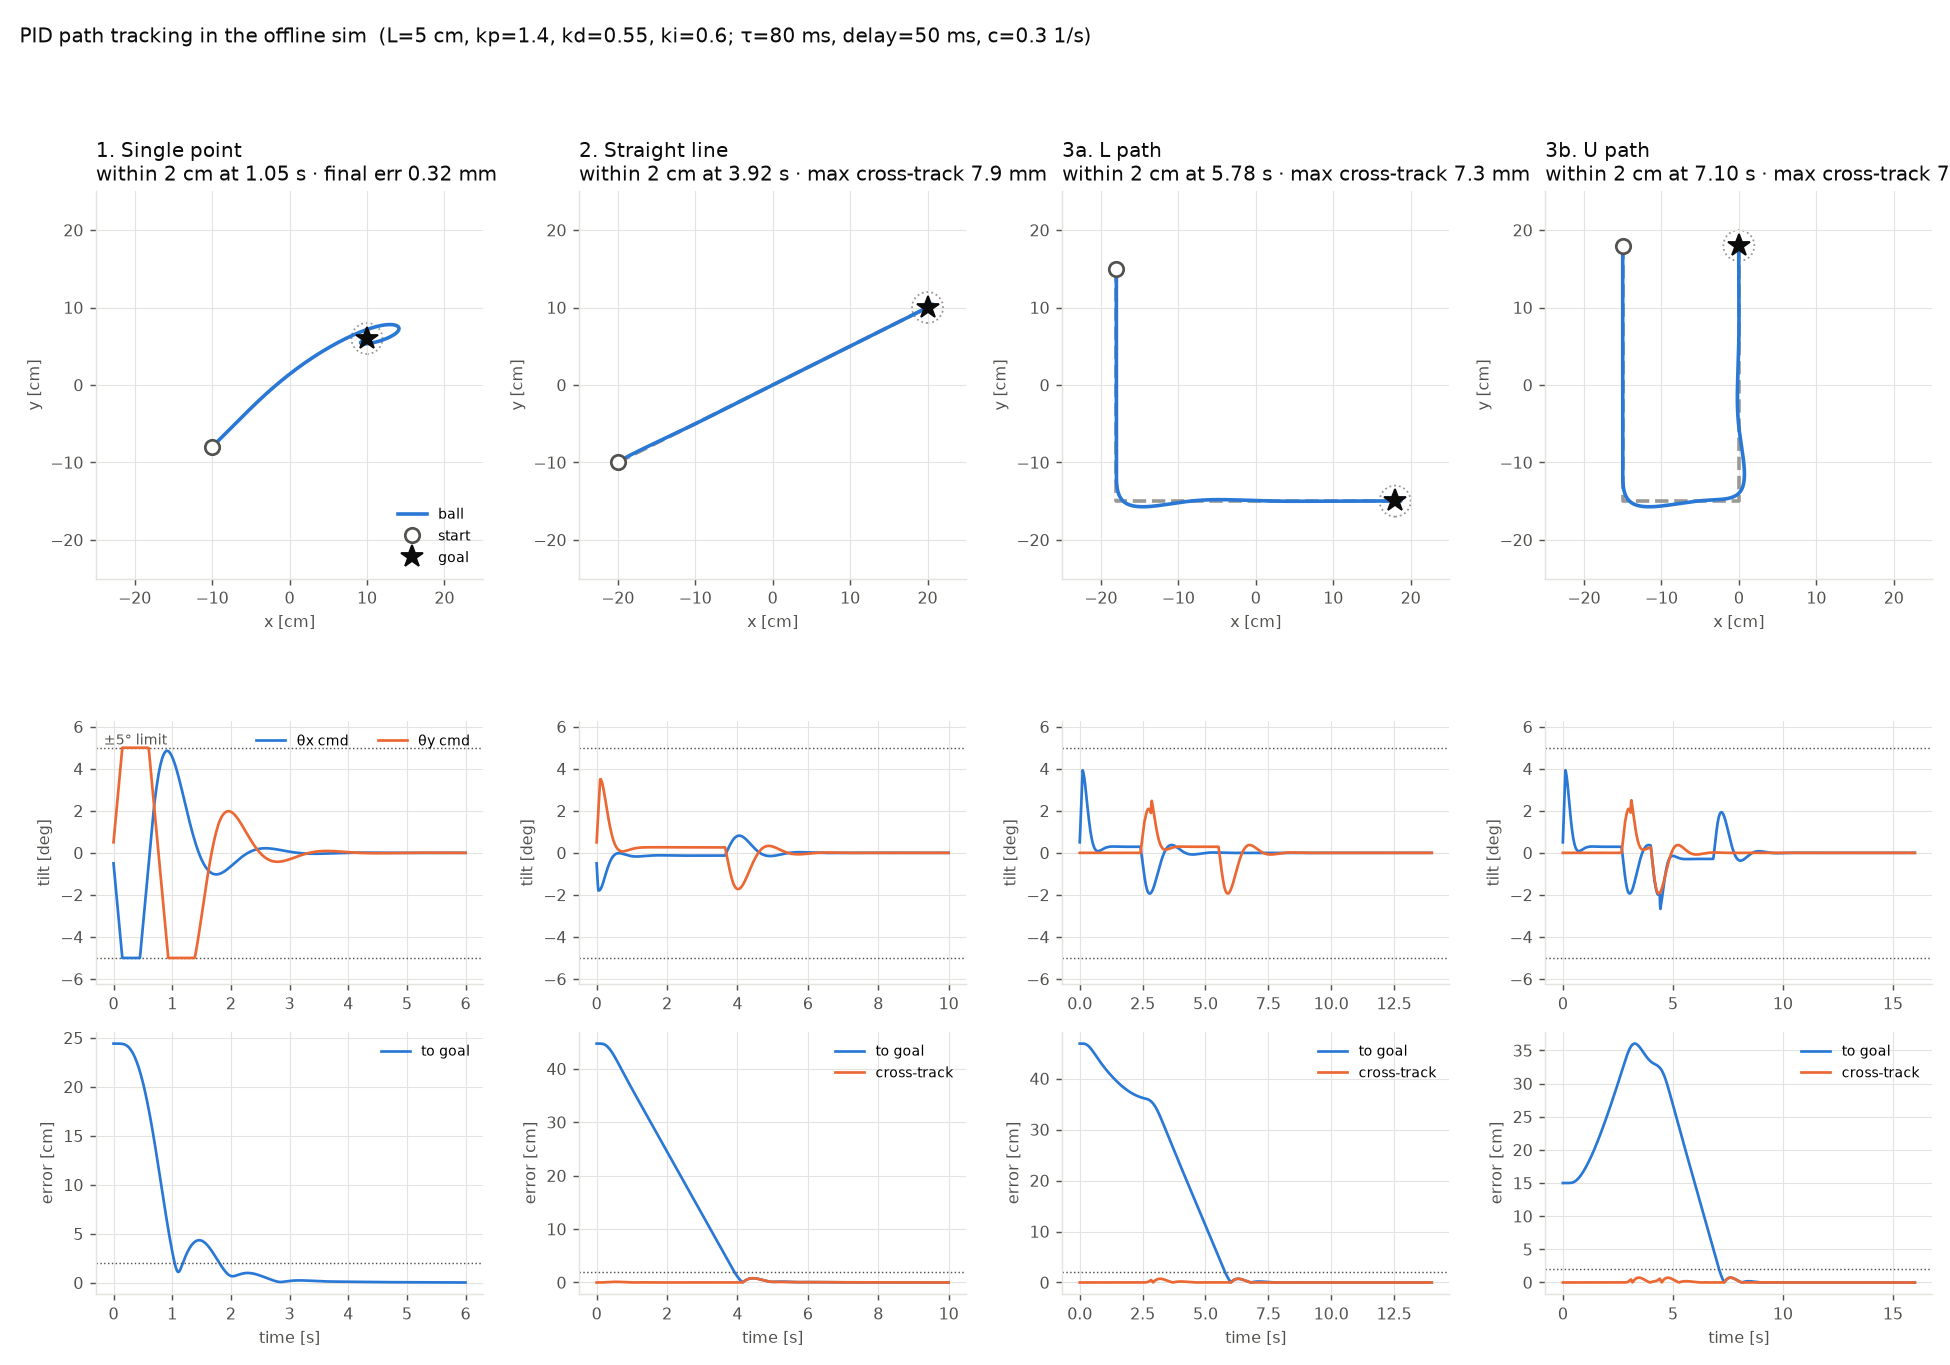
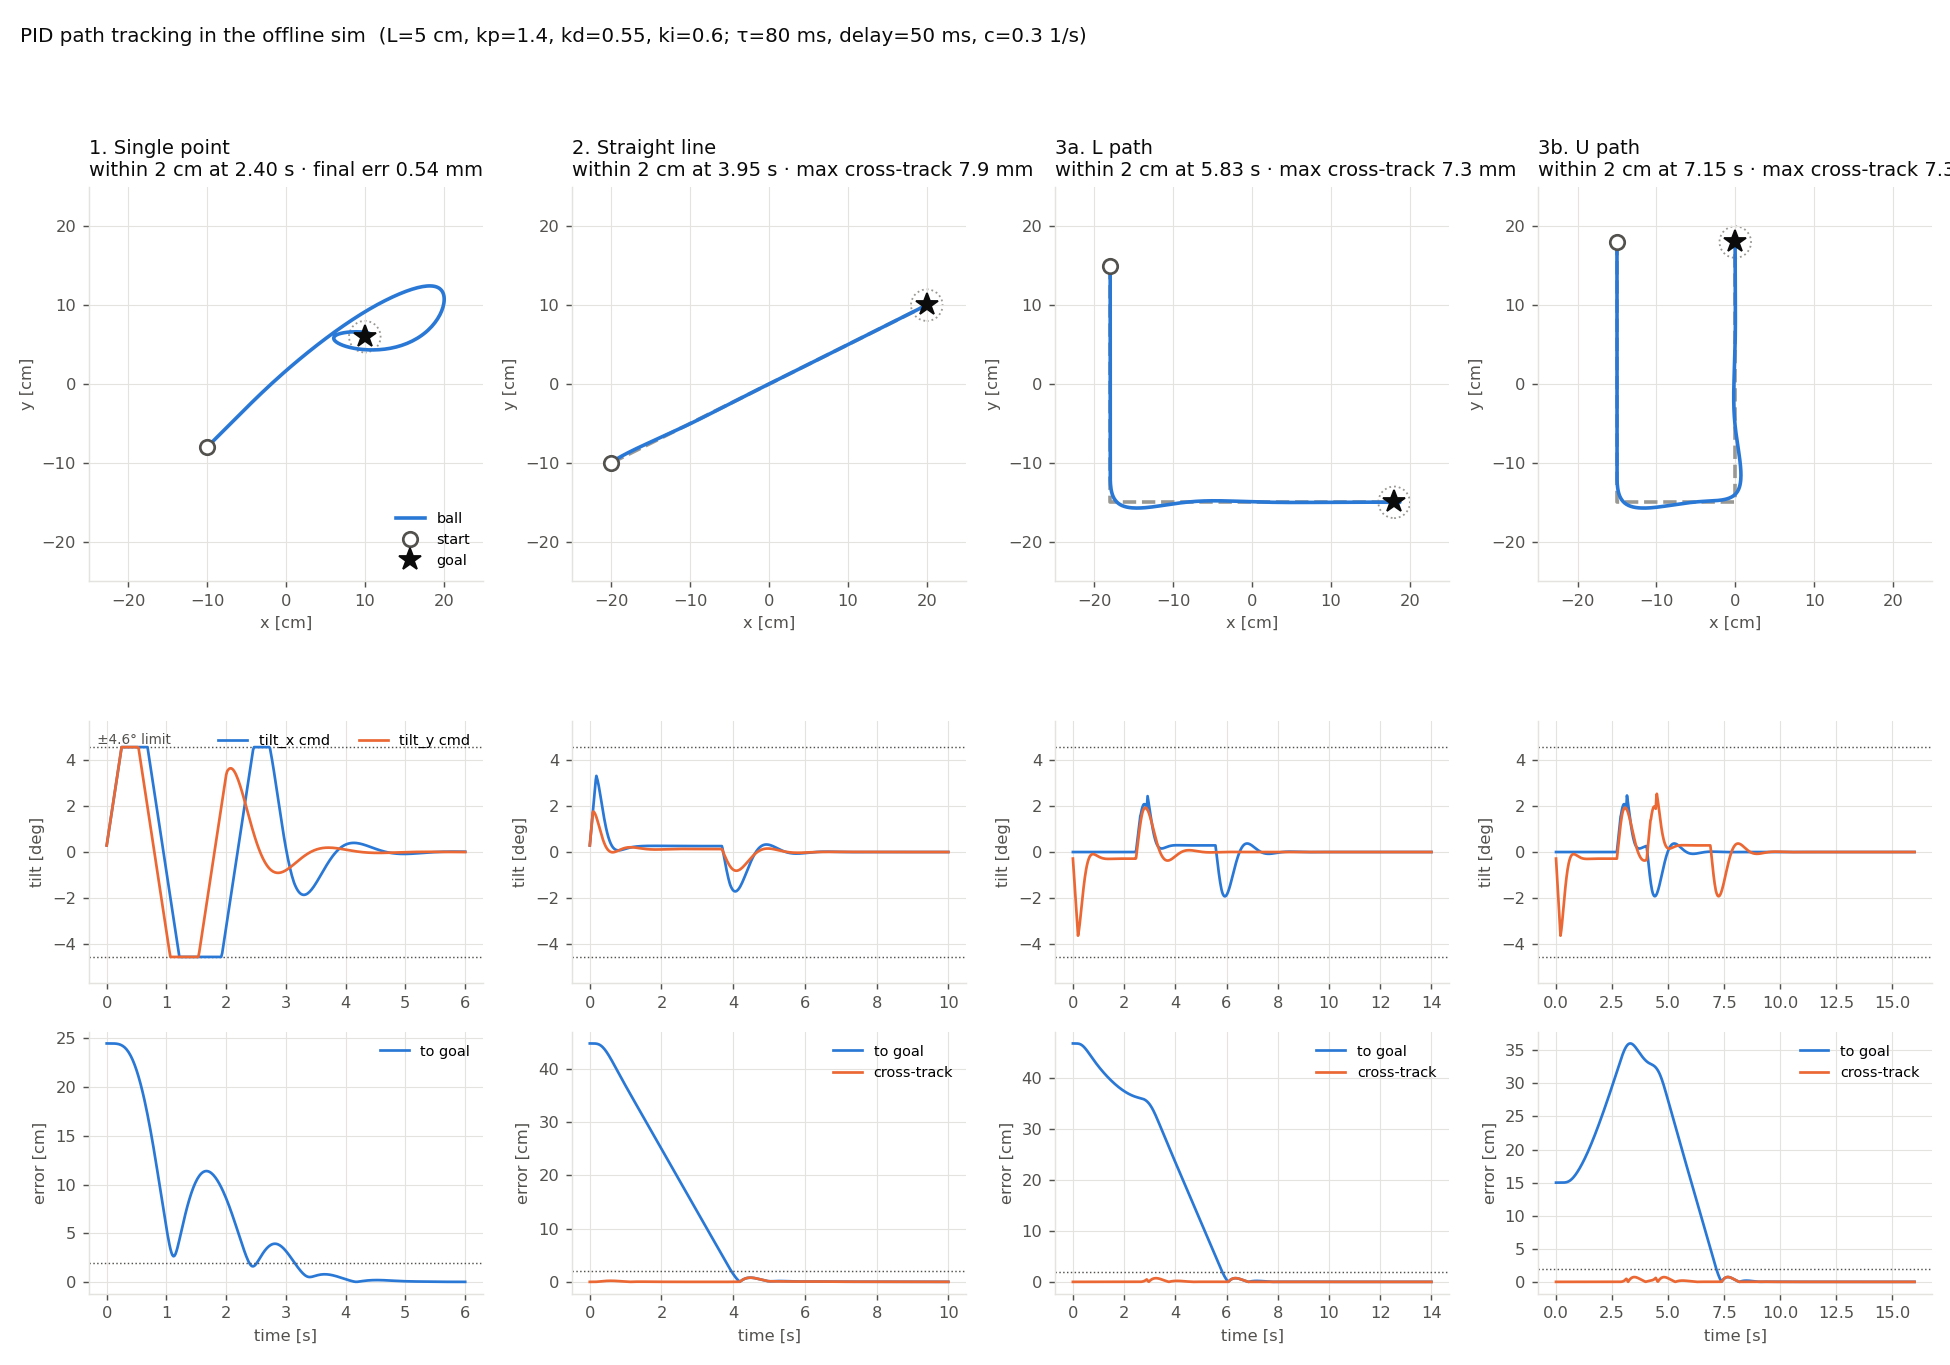
[control] PID: meet interfaces contracts 2 and 4, use_sim_time
- Contract 4: tilt and rate limits 0.08 rad and 0.3 rad/s, below arm
  control's hard limits (0.087 rad, 0.5 rad/s), as asked in the interfaces review.
- Contract 2: tracking lost for state_timeout during a run stops the run;
  it stays stopped when the ball is found again until a new path arrives.
- pid.launch.py: use_sim_time argument, so the watchdog runs on sim time.
- README and the trajectory plot updated; reach times and cross-track
  error are unchanged.

diff --git a/src/maze_control/test/test_pid_limits_watchdog.py b/src/maze_control/test/test_pid_limits_watchdog.py
@@ -55,24 +55,52 @@ def test_tracking_loss_returns_to_zero(run, pid_params):
 
     before = (t > lost_at - 0.2) & (t <= lost_at + timeout)
     assert np.abs(cmd[before]).max() > np.radians(0.5), 'should still be tilting'
-    assert all(s != 'timeout' for s in log['status'][t <= lost_at + timeout])
-    assert all(s == 'timeout' for s in log['status'][t > lost_at + timeout + 1e-9])
+    assert all(s != 'stopped' for s in log['status'][t <= lost_at + timeout])
+    assert all(s == 'stopped' for s in log['status'][t > lost_at + timeout + 1e-9])
 
     zero = t > lost_at + timeout + ramp + 2.0 / pid_params['rate_hz']
     assert np.all(cmd[zero] == 0.0), 'tilt must be exactly 0 after the ramp'
 
 
-def test_recovers_when_states_resume(pid_params):
+def test_stays_stopped_until_new_path(pid_params):
+    """Contract 2: tracking lost for state_timeout stops the run; states
+    coming back do not restart it, only a new path does."""
     ctrl = PidPathController.from_params(pid_params)
     ctrl.on_path([[0.1, 0.0]])
     dt = 1.0 / pid_params['rate_hz']
     ctrl.on_state(0.0, (0.0, 0.0), (0.0, 0.0))
     for k in range(60):                     # 1 s without new states
         ctrl.update(k * dt)
-    assert ctrl.status == 'timeout'
+    assert ctrl.status == 'stopped'
     assert np.allclose(ctrl.update(60 * dt), 0.0)
-    ctrl.on_state(61 * dt, (0.0, 0.0), (0.0, 0.0))
-    ctrl.update(61 * dt)
+
+    for k in range(61, 121):                # states are back: still stopped
+        ctrl.on_state(k * dt, (0.0, 0.0), (0.0, 0.0))
+        assert np.all(ctrl.update(k * dt) == 0.0)
+        assert ctrl.status == 'stopped'
+
+    assert not ctrl.on_path([[0.1, 0.0]])   # same path republished: no restart
+    ctrl.on_state(121 * dt, (0.0, 0.0), (0.0, 0.0))
+    ctrl.update(121 * dt)
+    assert ctrl.status == 'stopped'
+
+    assert ctrl.on_path([[0.0, 0.1]])       # new path: new run
+    ctrl.on_state(122 * dt, (0.0, 0.0), (0.0, 0.0))
+    ctrl.update(122 * dt)
+    assert ctrl.status == 'tracking'
+
+
+def test_no_stop_before_a_run(pid_params):
+    """A missing tracker before any path is not a stopped run."""
+    ctrl = PidPathController.from_params(pid_params)
+    dt = 1.0 / pid_params['rate_hz']
+    ctrl.on_state(0.0, (0.0, 0.0), (0.0, 0.0))
+    for k in range(60):
+        ctrl.update(k * dt)
+    assert ctrl.status == 'timeout'
+    ctrl.on_path([[0.1, 0.0]])
+    ctrl.on_state(60 * dt, (0.0, 0.0), (0.0, 0.0))
+    ctrl.update(60 * dt)
     assert ctrl.status == 'tracking'
 
 

diff --git a/src/maze_control/maze_control/pid/controller.py b/src/maze_control/maze_control/pid/controller.py
@@ -3,6 +3,10 @@
 The ROS node feeds it ``on_path`` / ``on_state`` from its subscriptions and
 calls ``update`` from a 60 Hz timer. Tests drive it the same way with
 simulated time.
+
+Tracking loss (contract 2 in docs/interfaces.md): no good ball state for
+``state_timeout`` during a run levels the board and stops the run. It stays
+stopped, even if states come back, until a new path starts the next run.
 """
 
 import numpy as np
@@ -23,6 +27,7 @@ class PidPathController:
         self.t_last = None
         self.target = None
         self.status = 'no_state'
+        self.stopped = False
         self._raw_path = None
 
     @classmethod
@@ -52,6 +57,7 @@ class PidPathController:
         self._raw_path = pts
         self.tracker.set_path(pts)
         self.pid.reset()
+        self.stopped = False          # a new path starts a new run
         return True
 
     def on_state(self, t, pos, vel):
@@ -66,7 +72,13 @@ class PidPathController:
         dt = min(max(dt, 0.0), 2.0 * nominal)   # bound the step after a stall
         self.t_last = t
 
-        if self.t_state is None:
+        if self.t_state is not None and t - self.t_state > self.state_timeout \
+                and self.tracker.has_path:
+            self.stopped = True       # tracking lost during a run: stop it
+
+        if self.stopped:
+            self.status = 'stopped'
+        elif self.t_state is None:
             self.status = 'no_state'
         elif t - self.t_state > self.state_timeout:
             self.status = 'timeout'

diff --git a/src/maze_control/launch/pid.launch.py b/src/maze_control/launch/pid.launch.py
@@ -5,6 +5,7 @@ from launch import LaunchDescription
 from launch.actions import DeclareLaunchArgument
 from launch.substitutions import LaunchConfiguration
 from launch_ros.actions import Node
+from launch_ros.parameter_descriptions import ParameterValue
 
 
 def generate_launch_description():
@@ -12,7 +13,12 @@ def generate_launch_description():
                                'config', 'pid.yaml')
     return LaunchDescription([
         DeclareLaunchArgument('config', default_value=default_cfg),
+        # true in the sim: the 200 ms watchdog then runs on /clock, so a
+        # slower-than-real-time sim cannot trip it.
+        DeclareLaunchArgument('use_sim_time', default_value='false'),
         Node(package='maze_control', executable='pid_node',
              name='maze_pid_controller', output='screen',
-             parameters=[LaunchConfiguration('config')]),
+             parameters=[LaunchConfiguration('config'),
+                         {'use_sim_time': ParameterValue(
+                             LaunchConfiguration('use_sim_time'), value_type=bool)}]),
     ])

diff --git a/src/maze_control/scripts/plot_trajectories.py b/src/maze_control/scripts/plot_trajectories.py
@@ -87,7 +87,7 @@ def main():
         ax.set_ylabel('tilt [deg]'), ax.grid(color=GRID, lw=0.6)
         if col == 0:
             ax.legend(loc='upper right', frameon=False, fontsize=8, ncol=2)
-            ax.text(0.01, max_tilt, f' ±{max_tilt:g}° limit', va='bottom', color=INK2,
+            ax.text(0.01, max_tilt, f' ±{max_tilt:.1f}° limit', va='bottom', color=INK2,
                     fontsize=7.5, transform=ax.get_yaxis_transform())
 
         # Row 3: distance to goal and cross-track error

diff --git a/README.md b/README.md
@@ -288,7 +288,7 @@ src/maze_control/
 
 ```bash
 colcon build && source install/setup.bash
-ros2 launch maze_control pid.launch.py
+ros2 launch maze_control pid.launch.py use_sim_time:=true   # false (default) on the robot
 ```
 
 | Topic | Type | Notes |
@@ -299,7 +299,9 @@ ros2 launch maze_control pid.launch.py
 
 Board frame as in [Perception](#perception): origin at the plate center, +x right, +y up seen from the camera. θy > 0 rolls the ball to +x and θx > 0 rolls it to −y; both signs are parameters (`sign.*`).
 
-[`config/pid.yaml`](src/maze_control/config/pid.yaml) holds every gain and limit: tilt ±5° and 30°/s per axis, look-ahead 5 cm, stop advancing within 2 cm of the goal, tilt back to 0 (rate limited) after 200 ms without `/ball/state`.
+[`config/pid.yaml`](src/maze_control/config/pid.yaml) holds every gain and limit: tilt 0.08 rad (4.6°) and 0.3 rad/s per axis, below arm control's hard limits of 0.087 rad and 0.5 rad/s ([contract 4](docs/interfaces.md)); look-ahead 5 cm; stop advancing within 2 cm of the goal.
+
+Tracking loss ([contract 2](docs/interfaces.md)): states with `tracking_ok = false` are ignored. After 200 ms without a good state during a run, the board tilts back to 0 (rate limited) and the run stops (`status: stopped`). It stays stopped when the ball is found again; only a new path on `/maze/path` starts the next run.
 
 ### PID
 
@@ -316,4 +318,4 @@ cd src/maze_control && python3 -m pytest test
 python3 scripts/plot_trajectories.py   # rewrites docs/media/pid_trajectories.png
 ```
 
-`test_pid_closed_loop.py` covers a single target (and that a flipped sign fails), straight, L and U paths. `test_pid_limits_watchdog.py` covers the tilt and rate limits and the timeout. `test_path_tracker.py` covers the shared tracker.
+`test_pid_closed_loop.py` covers a single target (and that a flipped sign fails), straight, L and U paths. `test_pid_limits_watchdog.py` covers the tilt and rate limits, the timeout and the stopped run. `test_path_tracker.py` covers the shared tracker.
